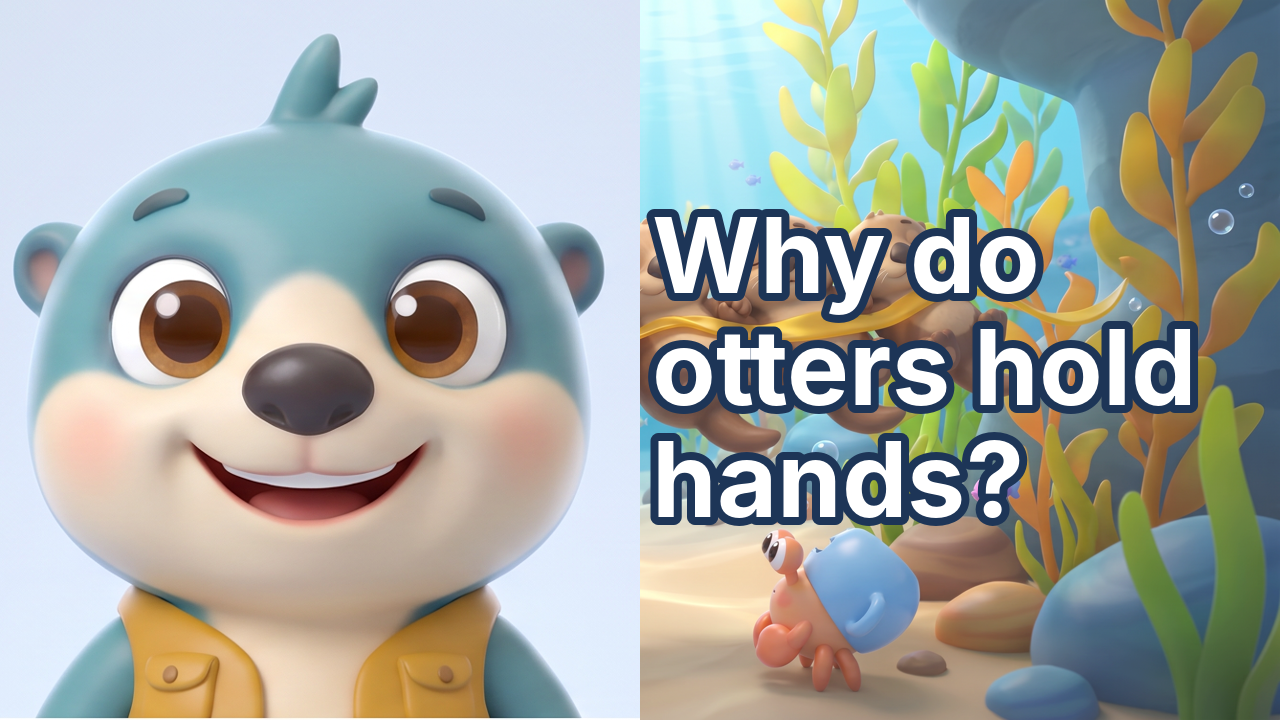
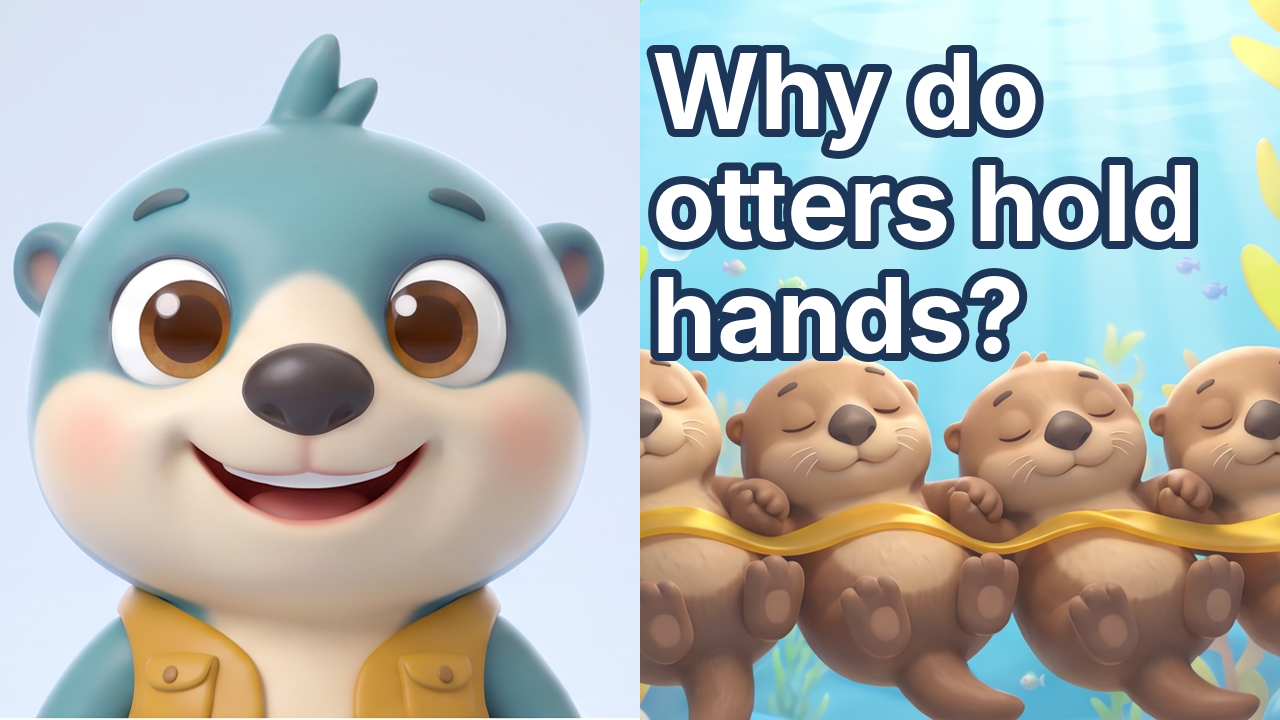
Thumbnail layout override (E02 shows the otter raft) and hosted thumbnails set via vidIQ
Claude-Session: https://claude.ai/code/session_018opNwaDsoAjmGHWn5ETCat

diff --git a/pipeline/package.py b/pipeline/package.py
@@ -42,7 +42,12 @@ def thumbnail(ep, meta, out):
         import json as _j
         still = d / "shots" / f"{ep}-{_j.loads(hs.read_text())[0]}.png"
         if still.exists():
-            bg = Image.open(still).convert("RGB").resize((W, H))
+            bg = Image.open(still).convert("RGB")
+            lay = d / "thumb_layout.json"  # optional per-episode crop (fractions x0,y0,x1,y1) so the key subject stays visible
+            if lay.exists():
+                x0, y0, x1, y1 = _j.loads(lay.read_text())["crop"]
+                bg = bg.crop((int(bg.width * x0), int(bg.height * y0), int(bg.width * x1), int(bg.height * y1)))
+            bg = bg.resize((W, H))
             blend = 0.12
     bg = Image.blend(bg, Image.new("RGB", (W, H), (255, 255, 255)), blend)
     sheet = ROOT / "characters" / "ollie" / "expressions" / "expr_v2.png"
@@ -69,6 +74,12 @@ def thumbnail(ep, meta, out):
             cur = w
     lines.append(cur)
     y = (H - len(lines) * (size + 8)) // 2
+    lay = d / "thumb_layout.json"
+    if lay.exists():
+        import json as _k
+        ty = _k.loads(lay.read_text()).get("text_y")
+        if ty:
+            y = ty
     for ln in lines:
         dr.text((int(W * 0.51), y), ln, font=fnt, fill=(255, 255, 255), stroke_width=8, stroke_fill=(29, 53, 87))
         y += size + 8
